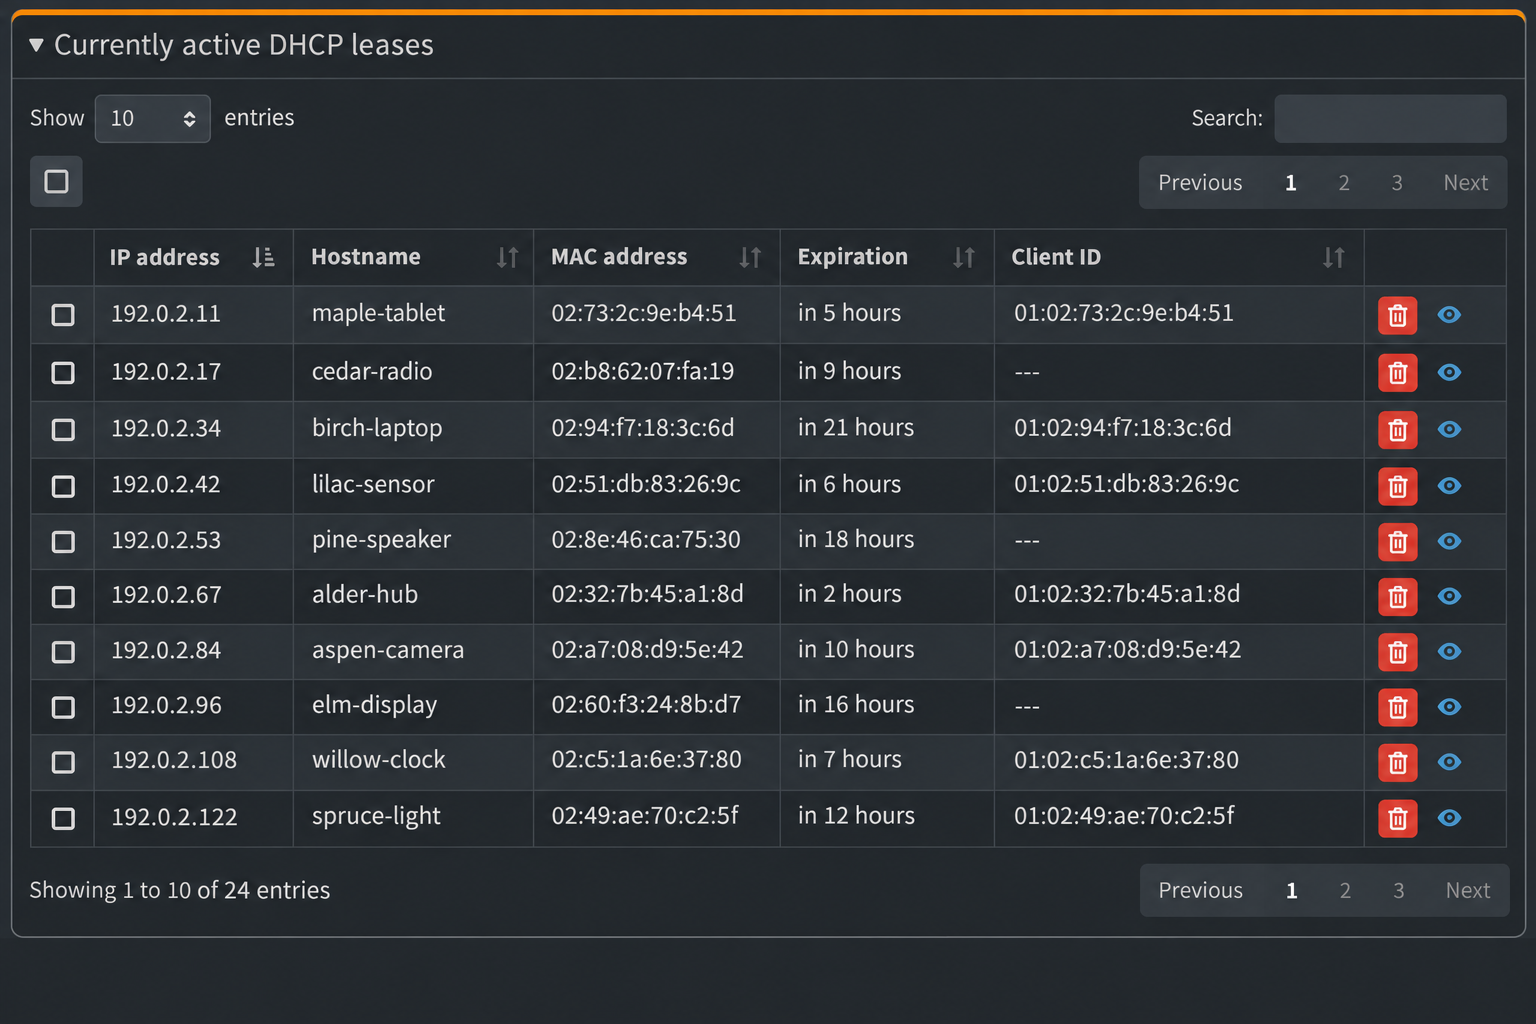
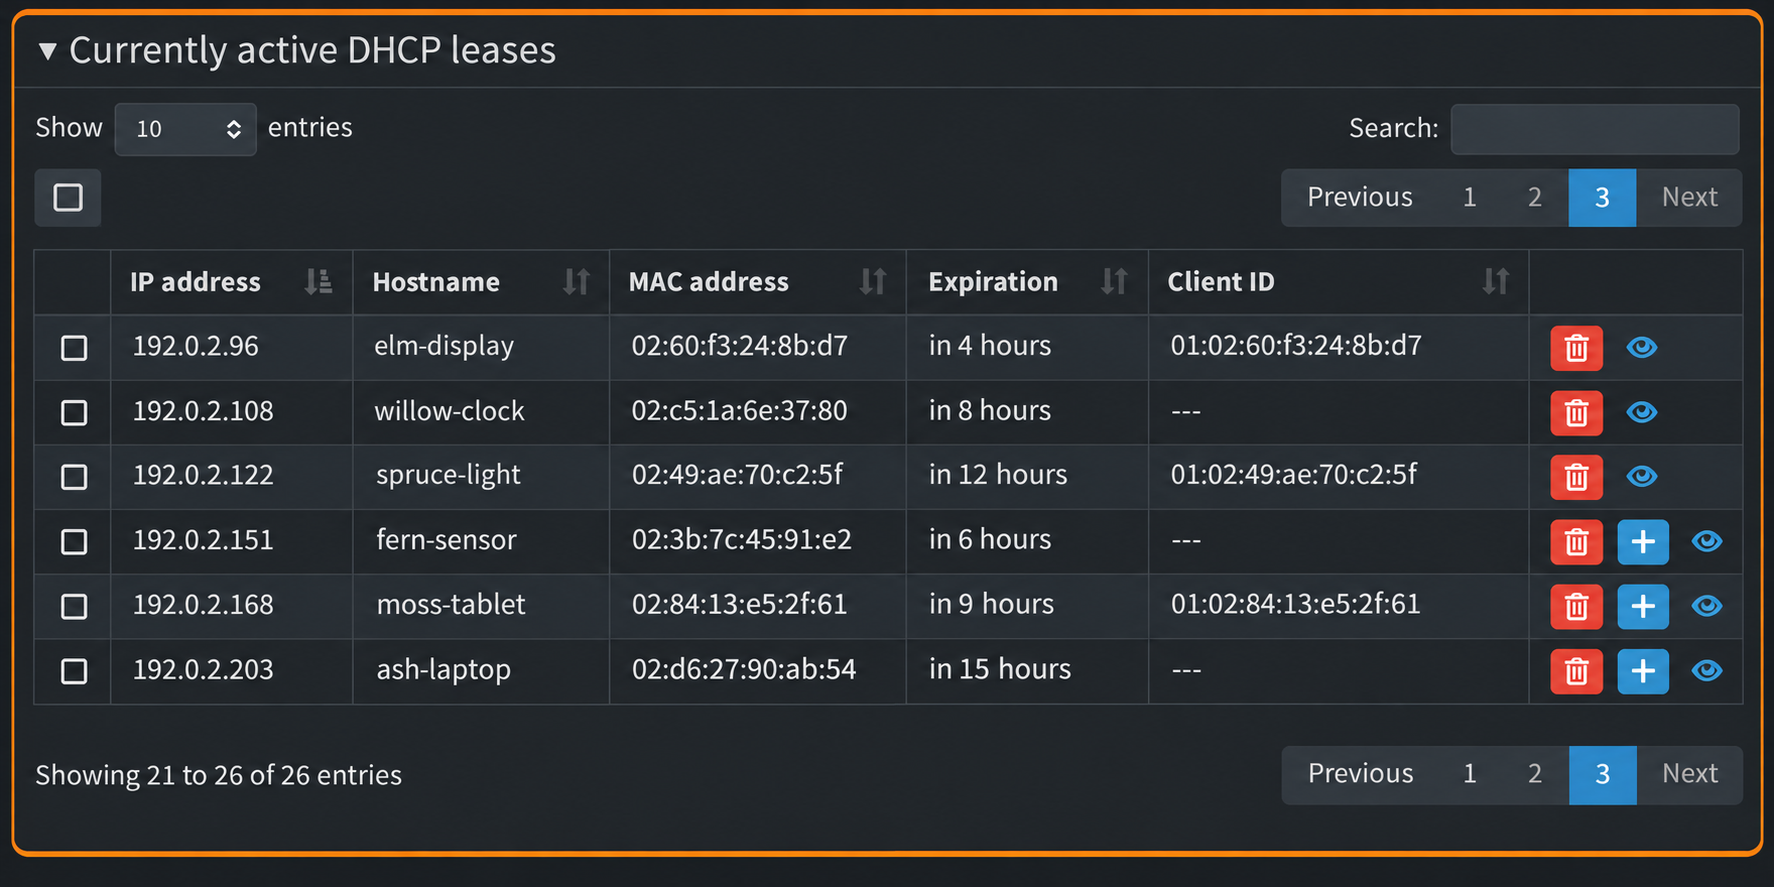
Show the add-reservation action on eligible DHCP leases

diff --git a/README.md b/README.md
@@ -15,11 +15,13 @@ Open the install page, copy the full prompt, and paste it into your LLM. It asks
 - Use **+** beside an eligible active lease to open an editable reservation draft. **Confirm** stages it for **Save & Apply**. The eye opens queries for that client.
 - Confirm lease deletions and expand **Manual Edit Static DHCP Entries** for advanced configurations.
 
-![Example active DHCP leases table showing IP addresses, hostnames, expiration times, and per-client actions](assets/active-dhcp-leases.png)
+![Six active DHCP leases. The bottom three have a plus button between the trash and eye icons.](assets/active-dhcp-leases.png)
+
+The top three devices already have static reservations. For any of the bottom three, select **+** to review and edit a new reservation.
 
 ![Static DHCP reservations with IP address, hostname, MAC address, and controls for adding or deleting a reservation](assets/static-dhcp-reservations.png)
 
-*Both examples use the same fictional devices and network addresses.*
+*Both tables use fictional device names and network addresses.*
 
 ## Query Log
 
